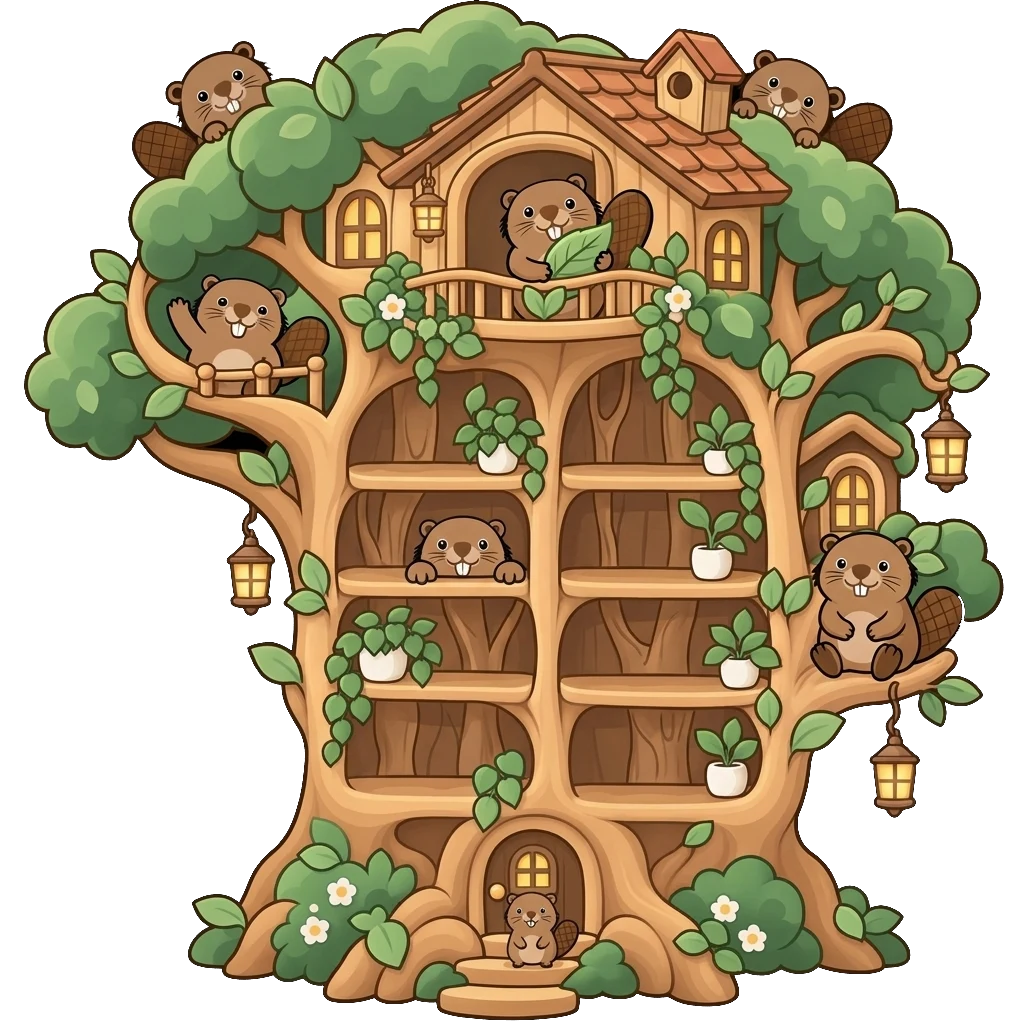
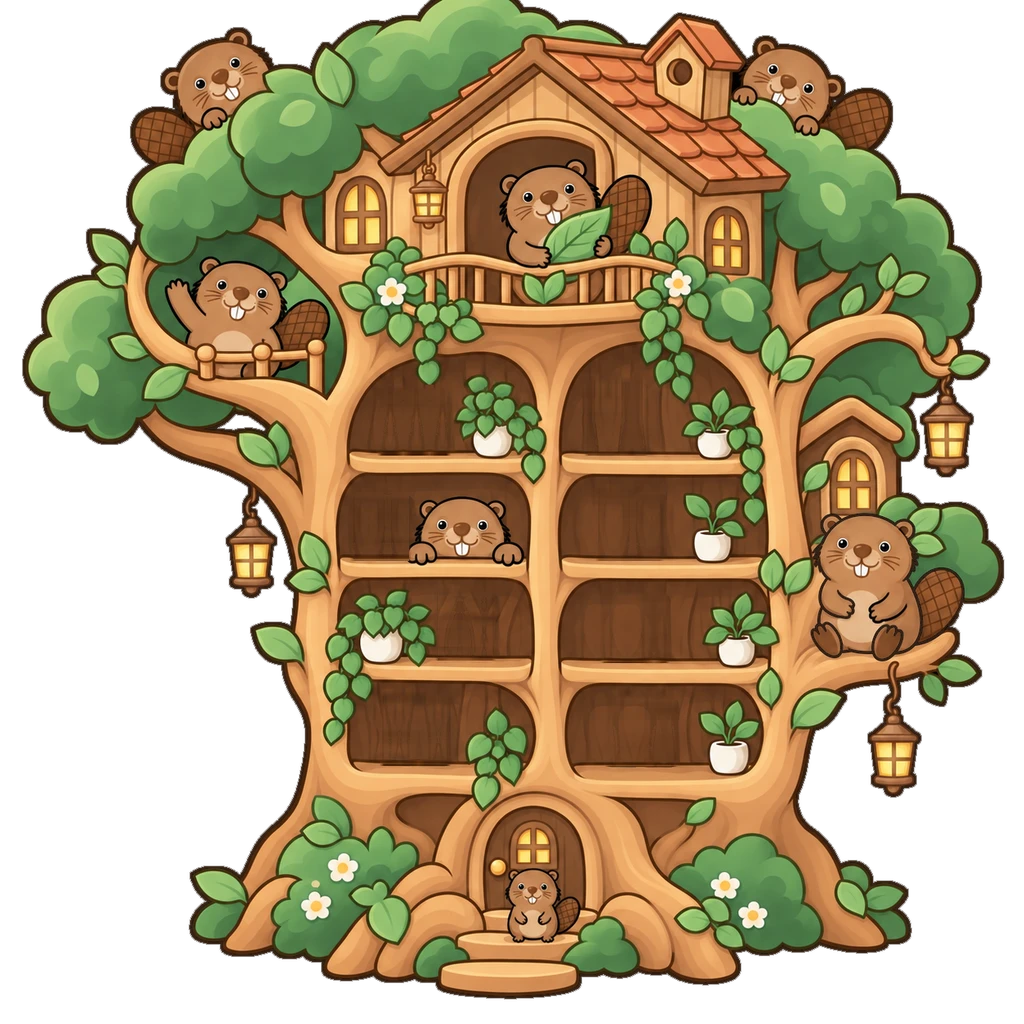
batch84: 月刊書櫃（含書本圖）

diff --git a/frontend/src/lib/bookshelf.js b/frontend/src/lib/bookshelf.js
@@ -1,22 +1,27 @@
-// 每月一本書的書櫃:三種書櫃圖(public/bookshelf/shelf-N.webp,1024×1024)
+// 每月一本書的書櫃:書櫃圖(public/bookshelf/shelf-N.webp,1024×1024)
 // 每一格的可放書範圍(以圖片像素計):x 起點、w 可用寬度(扣掉盆栽)、floor 層板上緣、h 格子高度
+// 也可以直接指定 bh 書高、bw 書寬、cap 最多幾本(依畫好的書量出來的)
+// 書本圖:public/bookshelf/book-N.webp(N 對應封面 1–3 的顏色),寬:高 約 0.435
 // 規則:每一格只放 2–4 本書;河狸佔了格子三分之二以上的格子不放書(不列在 cells 裡)
 export const BOOK_MIN = 2;
 export const BOOK_MAX = 4;
 
+export const BOOK_RATIO = 0.435;
+
 export const SHELVES = [
   {
+    // 樹屋(2026-10-30 換成使用者畫好書的版本,書已從圖上移除,由程式放上)
     id: 1,
     src: '/bookshelf/shelf-1.webp',
     cells: [
-      { x: 352, w: 98, floor: 465, h: 82 },
-      { x: 572, w: 112, floor: 465, h: 82 },
-      // 左邊第二格:河狸佔滿,不放書
-      { x: 572, w: 104, floor: 576, h: 82 },
-      { x: 446, w: 80, floor: 688, h: 86 },
-      { x: 572, w: 128, floor: 688, h: 86 },
-      { x: 352, w: 116, floor: 790, h: 84 },
-      { x: 578, w: 118, floor: 790, h: 84 },
+      { x: 359, w: 91, floor: 455, bh: 69 },
+      { x: 581, w: 102, floor: 456, bh: 77 },
+      { x: 353, w: 57, floor: 561, bh: 70, bw: 28, cap: 2 },
+      { x: 581, w: 100, floor: 561, bh: 70 },
+      { x: 435, w: 87, floor: 661, bh: 70 },
+      { x: 581, w: 135, floor: 663, bh: 71 },
+      { x: 359, w: 102, floor: 766, bh: 72 },
+      { x: 581, w: 127, floor: 767, bh: 72 },
     ],
   },
   {
@@ -44,22 +49,24 @@ export const SHELVES = [
 ];
 
 // 每格最多幾本(不超過 BOOK_MAX,也不超過放得下的數量)
-export function cellCapacity(cell, bookW) {
-  return Math.min(BOOK_MAX, Math.max(BOOK_MIN, Math.floor(cell.w / bookW)));
+export function cellCapacity(cell, bookW, gap = 3) {
+  if (cell.cap) return cell.cap;
+  return Math.min(BOOK_MAX, Math.max(1, Math.floor((cell.w + gap) / (bookW + gap))));
 }
 
 // 把 n 本書依序排進書櫃,回傳每本書的位置(圖片像素);放不下的不回傳
-// 書的大小依格子高度:高約格子的 86%,書背寬約高的 32%
+// 書高:有 bh 用 bh,否則約格子高的 86%;書寬依書本圖比例
 export function layoutBooks(shelf, n) {
   const out = [];
   let left = n;
   for (const cell of shelf.cells) {
     if (left <= 0) break;
-    const h = Math.round(cell.h * 0.86);
-    const w = Math.round(h * 0.32);
-    const take = Math.min(left, cellCapacity(cell, w + 4));
+    const h = cell.bh || Math.round(cell.h * 0.86);
+    const w = cell.bw || Math.round(h * BOOK_RATIO);
+    const gap = cell.cap ? 0 : 3;
+    const take = Math.min(left, cellCapacity(cell, w, gap));
     for (let i = 0; i < take; i += 1) {
-      out.push({ x: cell.x + i * (w + 4), y: cell.floor - h, w, h });
+      out.push({ x: cell.x + i * (w + gap), y: cell.floor - h, w, h });
     }
     left -= take;
   }

diff --git a/frontend/src/components/book/book.css b/frontend/src/components/book/book.css
@@ -60,9 +60,11 @@
 .bk-line i { flex: 1; height: 1px; background: #C9B79C; }
 .bk-line span { font-size: 8.5px; color: #9A8466; letter-spacing: .1em; }
 
-/* 書背 */
-.bk-spine { position: absolute; display: flex; align-items: center; justify-content: center; color: #fff; border-radius: 2px; cursor: pointer;
-  box-shadow: inset -2px 0 0 rgba(0, 0, 0, .08), inset 1px 0 0 rgba(255, 255, 255, .2), 1px 1px 2px rgba(0, 0, 0, .15); transition: transform .15s; }
+/* 書背:書本圖(book-N.webp)+年月 */
+.bk-spine { position: absolute; display: block; cursor: pointer; padding: 0; transition: transform .15s; filter: drop-shadow(2px 1px 1px rgba(40, 20, 5, .35)); }
 .bk-spine:hover { transform: translateY(-3px); }
-.bk-spine span { writing-mode: vertical-rl; font-family: "EB Garamond", serif; font-weight: 700; letter-spacing: .1em; font-variant-numeric: lining-nums; text-shadow: 0 1px 1px rgba(0, 0, 0, .18); white-space: nowrap; line-height: 1; }
-.bk-spine.bk-draft { outline: 1.5px dashed rgba(255, 255, 255, .9); outline-offset: -3px; }
+.bk-spine img { position: absolute; inset: 0; width: 100%; height: 100%; display: block; pointer-events: none; }
+.bk-spine span { position: absolute; left: 0; right: 0; top: 24%; bottom: 22%; display: flex; align-items: center; justify-content: center;
+  writing-mode: vertical-rl; color: #fff; font-family: "EB Garamond", serif; font-weight: 700; letter-spacing: .04em; font-variant-numeric: lining-nums;
+  text-shadow: 0 0 2px rgba(0, 0, 0, .45); white-space: nowrap; line-height: 1; }
+.bk-spine.bk-draft img { opacity: .75; }

diff --git a/frontend/src/pages/Bookshelf.jsx b/frontend/src/pages/Bookshelf.jsx
@@ -40,7 +40,7 @@ const deadlineLabel = (iso, lang) => {
   return lang === 'en' ? d.toLocaleDateString('en', { month: 'short', day: 'numeric' }) : `${d.getMonth() + 1}/${d.getDate()}`;
 };
 
-const readShelf = () => { try { return Number(localStorage.getItem('yy_shelf')) || 2; } catch { return 2; } };
+const readShelf = () => { try { return Number(localStorage.getItem('yy_shelf')) || 1; } catch { return 1; } };
 
 export default function Bookshelf() {
   const { language } = useLanguage();
@@ -118,8 +118,9 @@ export default function Bookshelf() {
           return (
             <button key={b.ym} type="button" onClick={() => setOpenYm(b.ym)} title={T.bookTitle(b.ym)}
               className={`bk-spine ${b.status === 'draft' ? 'bk-draft' : ''}`}
-              style={{ left: s.x * k, top: s.y * k, width: s.w * k, height: s.h * k, background: spineColor(b.cover || ((Number(b.ym.slice(5, 7)) - 1) % 3) + 1) }}>
-              <span style={{ fontSize: Math.max(6, s.w * k * 0.62) }}>{ymLabel(b.ym)}</span>
+              style={{ left: s.x * k, top: s.y * k, width: s.w * k, height: s.h * k }}>
+              <img src={`/bookshelf/book-${b.cover || ((Number(b.ym.slice(5, 7)) - 1) % 3) + 1}.webp`} alt="" draggable={false} />
+              <span style={{ fontSize: Math.max(5, Math.min(s.w * k * 0.55, (s.h * k * 0.5) / 3.7)) }}>{ymLabel(b.ym)}</span>
             </button>
           );
         })}
